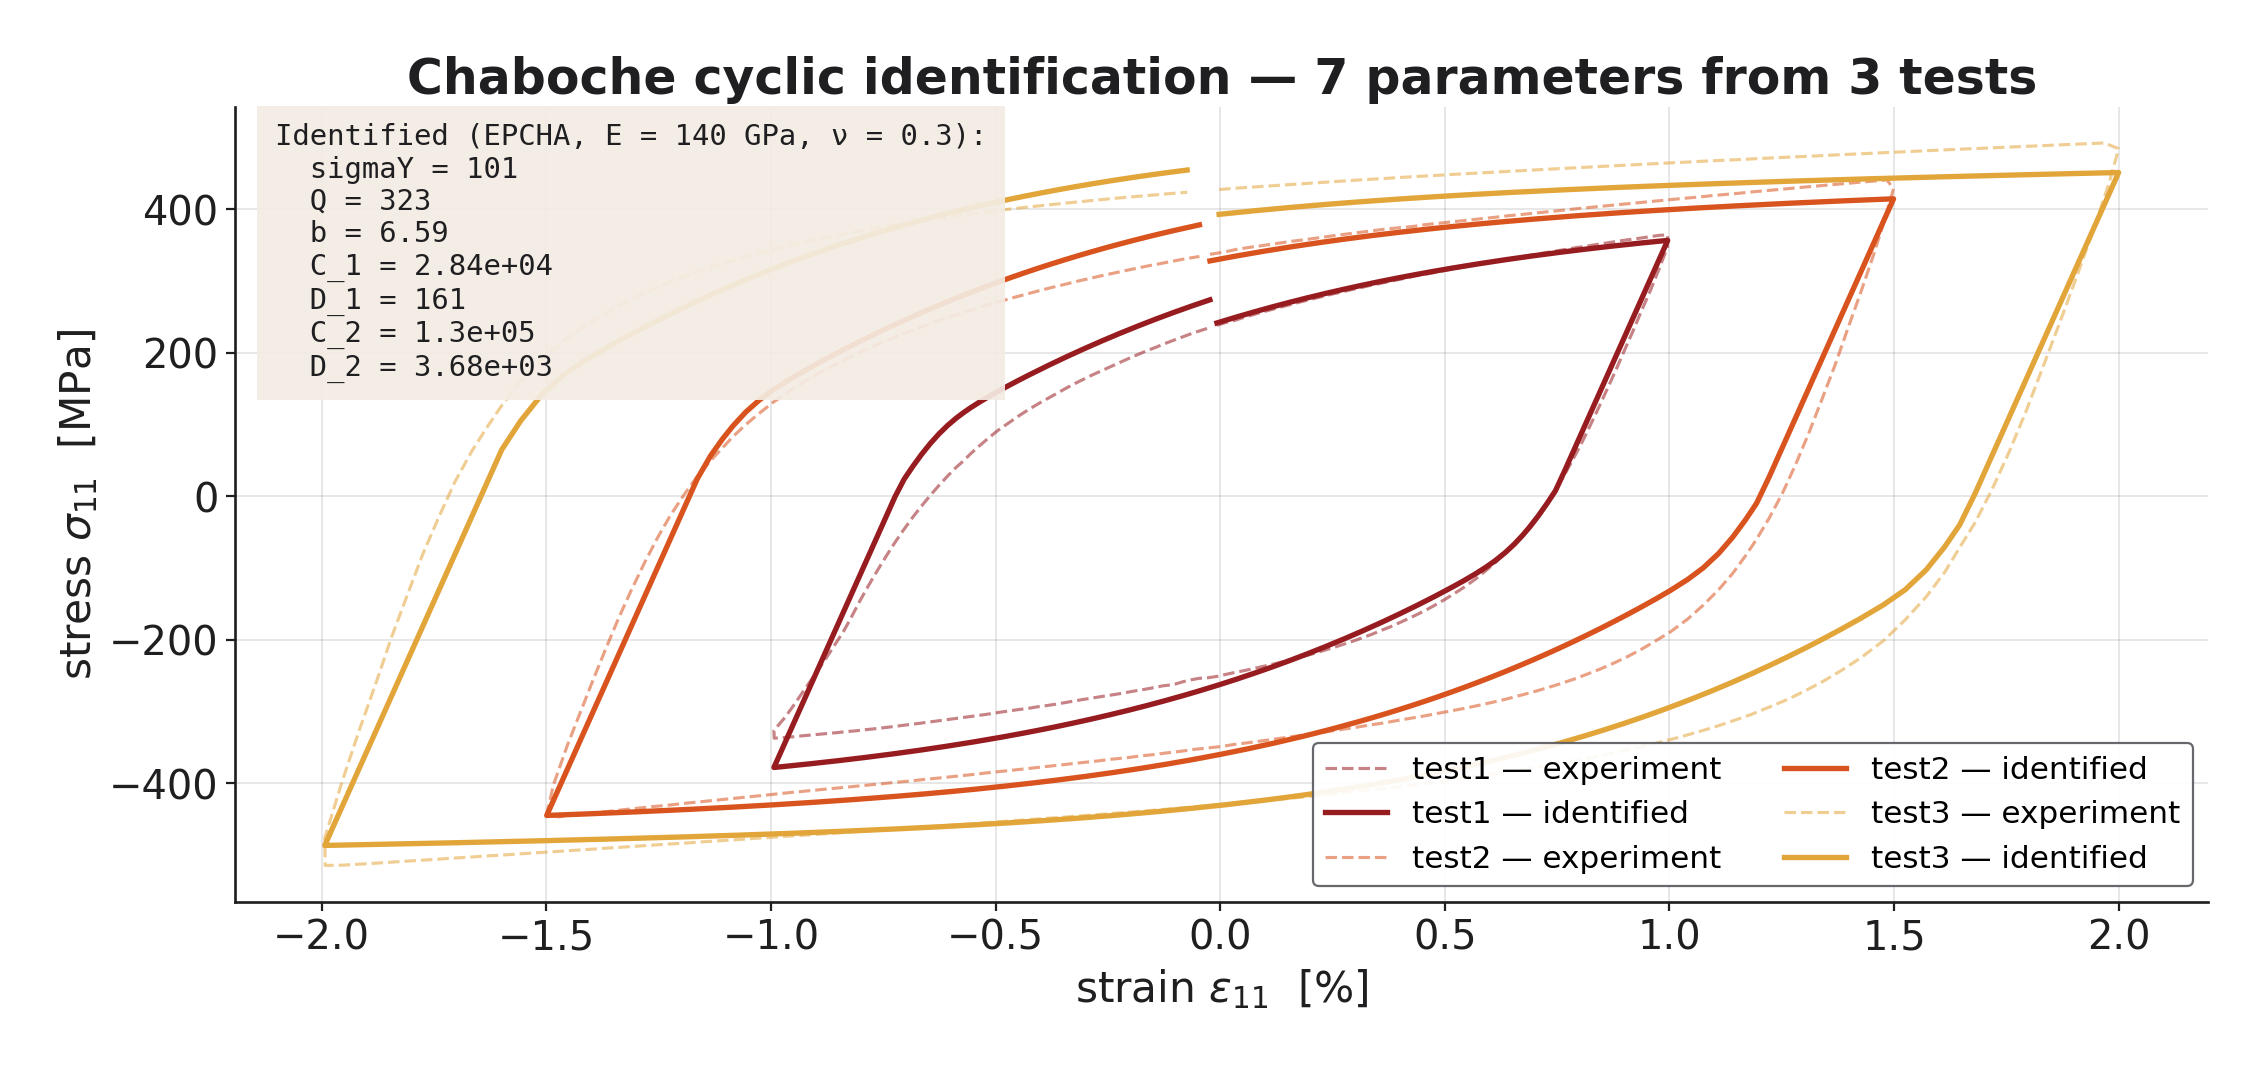
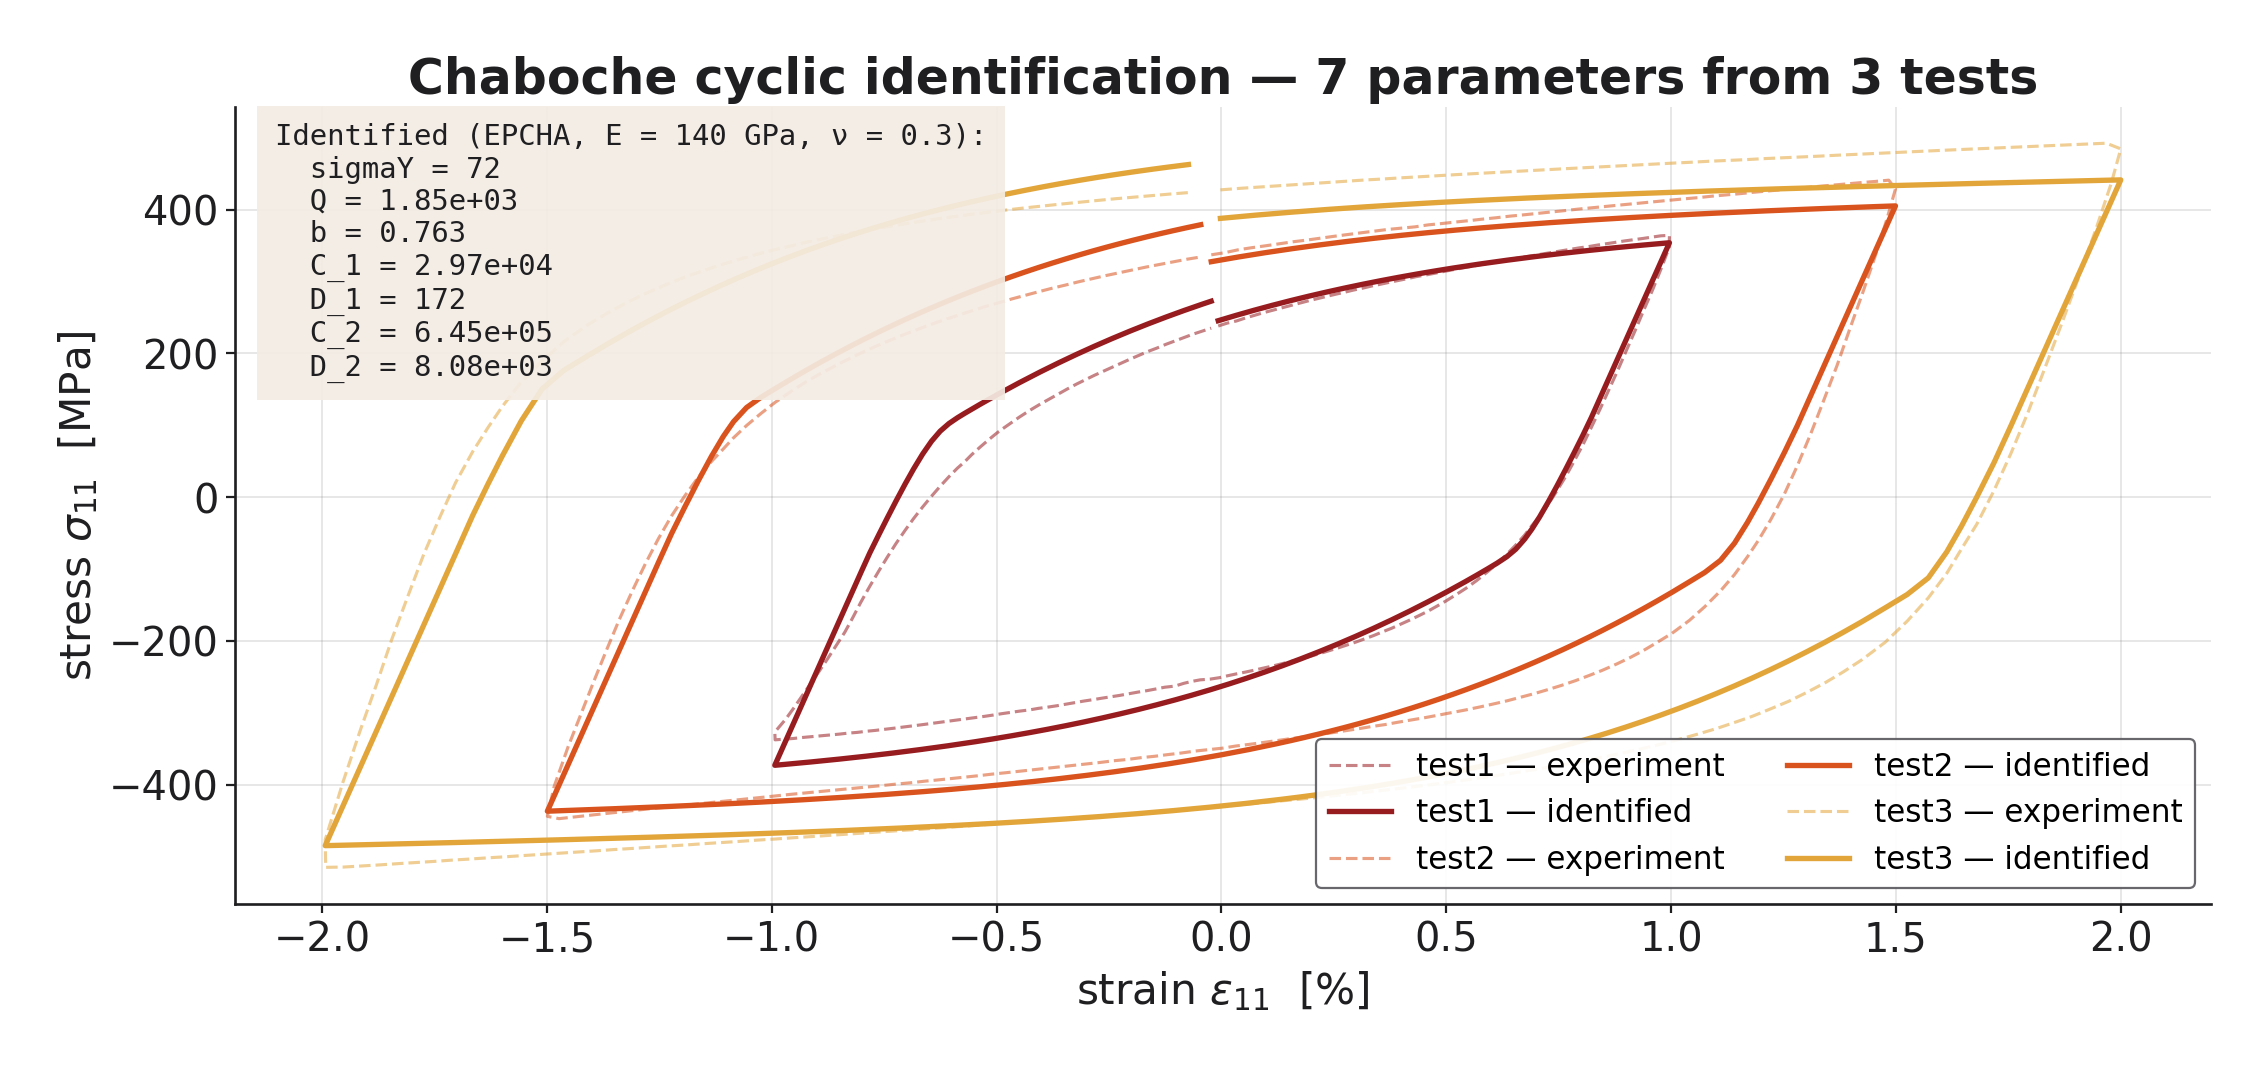
Seed DE with weak initial pop; update assets
Initialize the differential-evolution solver with a deliberately weak, clustered initial population to make the Chaboche identification animation start from an obviously-elastic response and show dramatic convergence. Adds a weak_guess (clipped to PARAMS bounds), builds a 15-member population clustered ±20% around it using RNG seed 7, prepends the weak_guess to history, and passes init to identification() (replacing the previous popsize usage). Also updates the media files for the simcoon identification (mp4/png) and reduces a CSS left border from 6px to 3px in _includes/head/custom.html.

diff --git a/_includes/head/custom.html b/_includes/head/custom.html
@@ -51,7 +51,7 @@
     --brand-b:      44;
     margin: 2.5em 0 3em;
     padding: 1em 1.4em 1.4em;
-    border-left: 6px solid var(--brand);
+    border-left: 3px solid var(--brand);
     background: linear-gradient(90deg,
       rgba(var(--brand-r), var(--brand-g), var(--brand-b), 0.10) 0%,
       rgba(var(--brand-r), var(--brand-g), var(--brand-b), 0.04) 35%,

diff --git a/scripts/render_simcoon_identification.py b/scripts/render_simcoon_identification.py
@@ -165,11 +165,36 @@ def main():
             history.append(np.asarray(xk).copy())
             return False
 
+        # Seed DE with a deliberately weak initial population so the
+        # animation opens on an obviously-elastic-looking response and
+        # the convergence onto the cyclic loops is visually dramatic.
+        # Default scipy Latin-hypercube would already land close to a
+        # plausible fit in 2-3 generations and undersell the algorithm.
+        bounds_arr = np.array([p.bounds for p in PARAMS])
+        weak_guess = np.array([
+            70.0,       # sigmaY  (low yield → too-soft elastic-plastic transition)
+            300.0,      # Q       (low isotropic saturation)
+            0.3,        # b       (slow saturation)
+            5000.0,     # C_1     (weak backstress modulus)
+            50.0,       # D_1     (slow backstress saturation)
+            50000.0,    # C_2     (weak fast-backstress)
+            200.0,      # D_2     (slow fast-backstress saturation)
+        ])
+        weak_guess = np.clip(weak_guess, bounds_arr[:, 0], bounds_arr[:, 1])
+        rng = np.random.default_rng(7)
+        pop_size = 15
+        # Cluster ±20% around the weak central guess, then clip to bounds.
+        init_pop = weak_guess * rng.uniform(0.8, 1.2, size=(pop_size, weak_guess.size))
+        init_pop = np.clip(init_pop, bounds_arr[:, 0], bounds_arr[:, 1])
+        # Prepend the central weak guess as the visual starting point of
+        # the animation (DE's callback only fires AFTER iteration 1).
+        history.append(weak_guess.copy())
+
         print(" Chaboche cyclic identification — running differential evolution …")
         result = identification(
             cost, PARAMS,
             args=(exp_stresses, path_data, path_results),
-            seed=42, popsize=15, maxiter=80, tol=1e-6, disp=False,
+            seed=42, init=init_pop, maxiter=80, tol=1e-6, disp=False,
             callback=_de_callback,
         )
         print(f"   final cost = {result.fun:.4e}   ({len(history)} generations)")